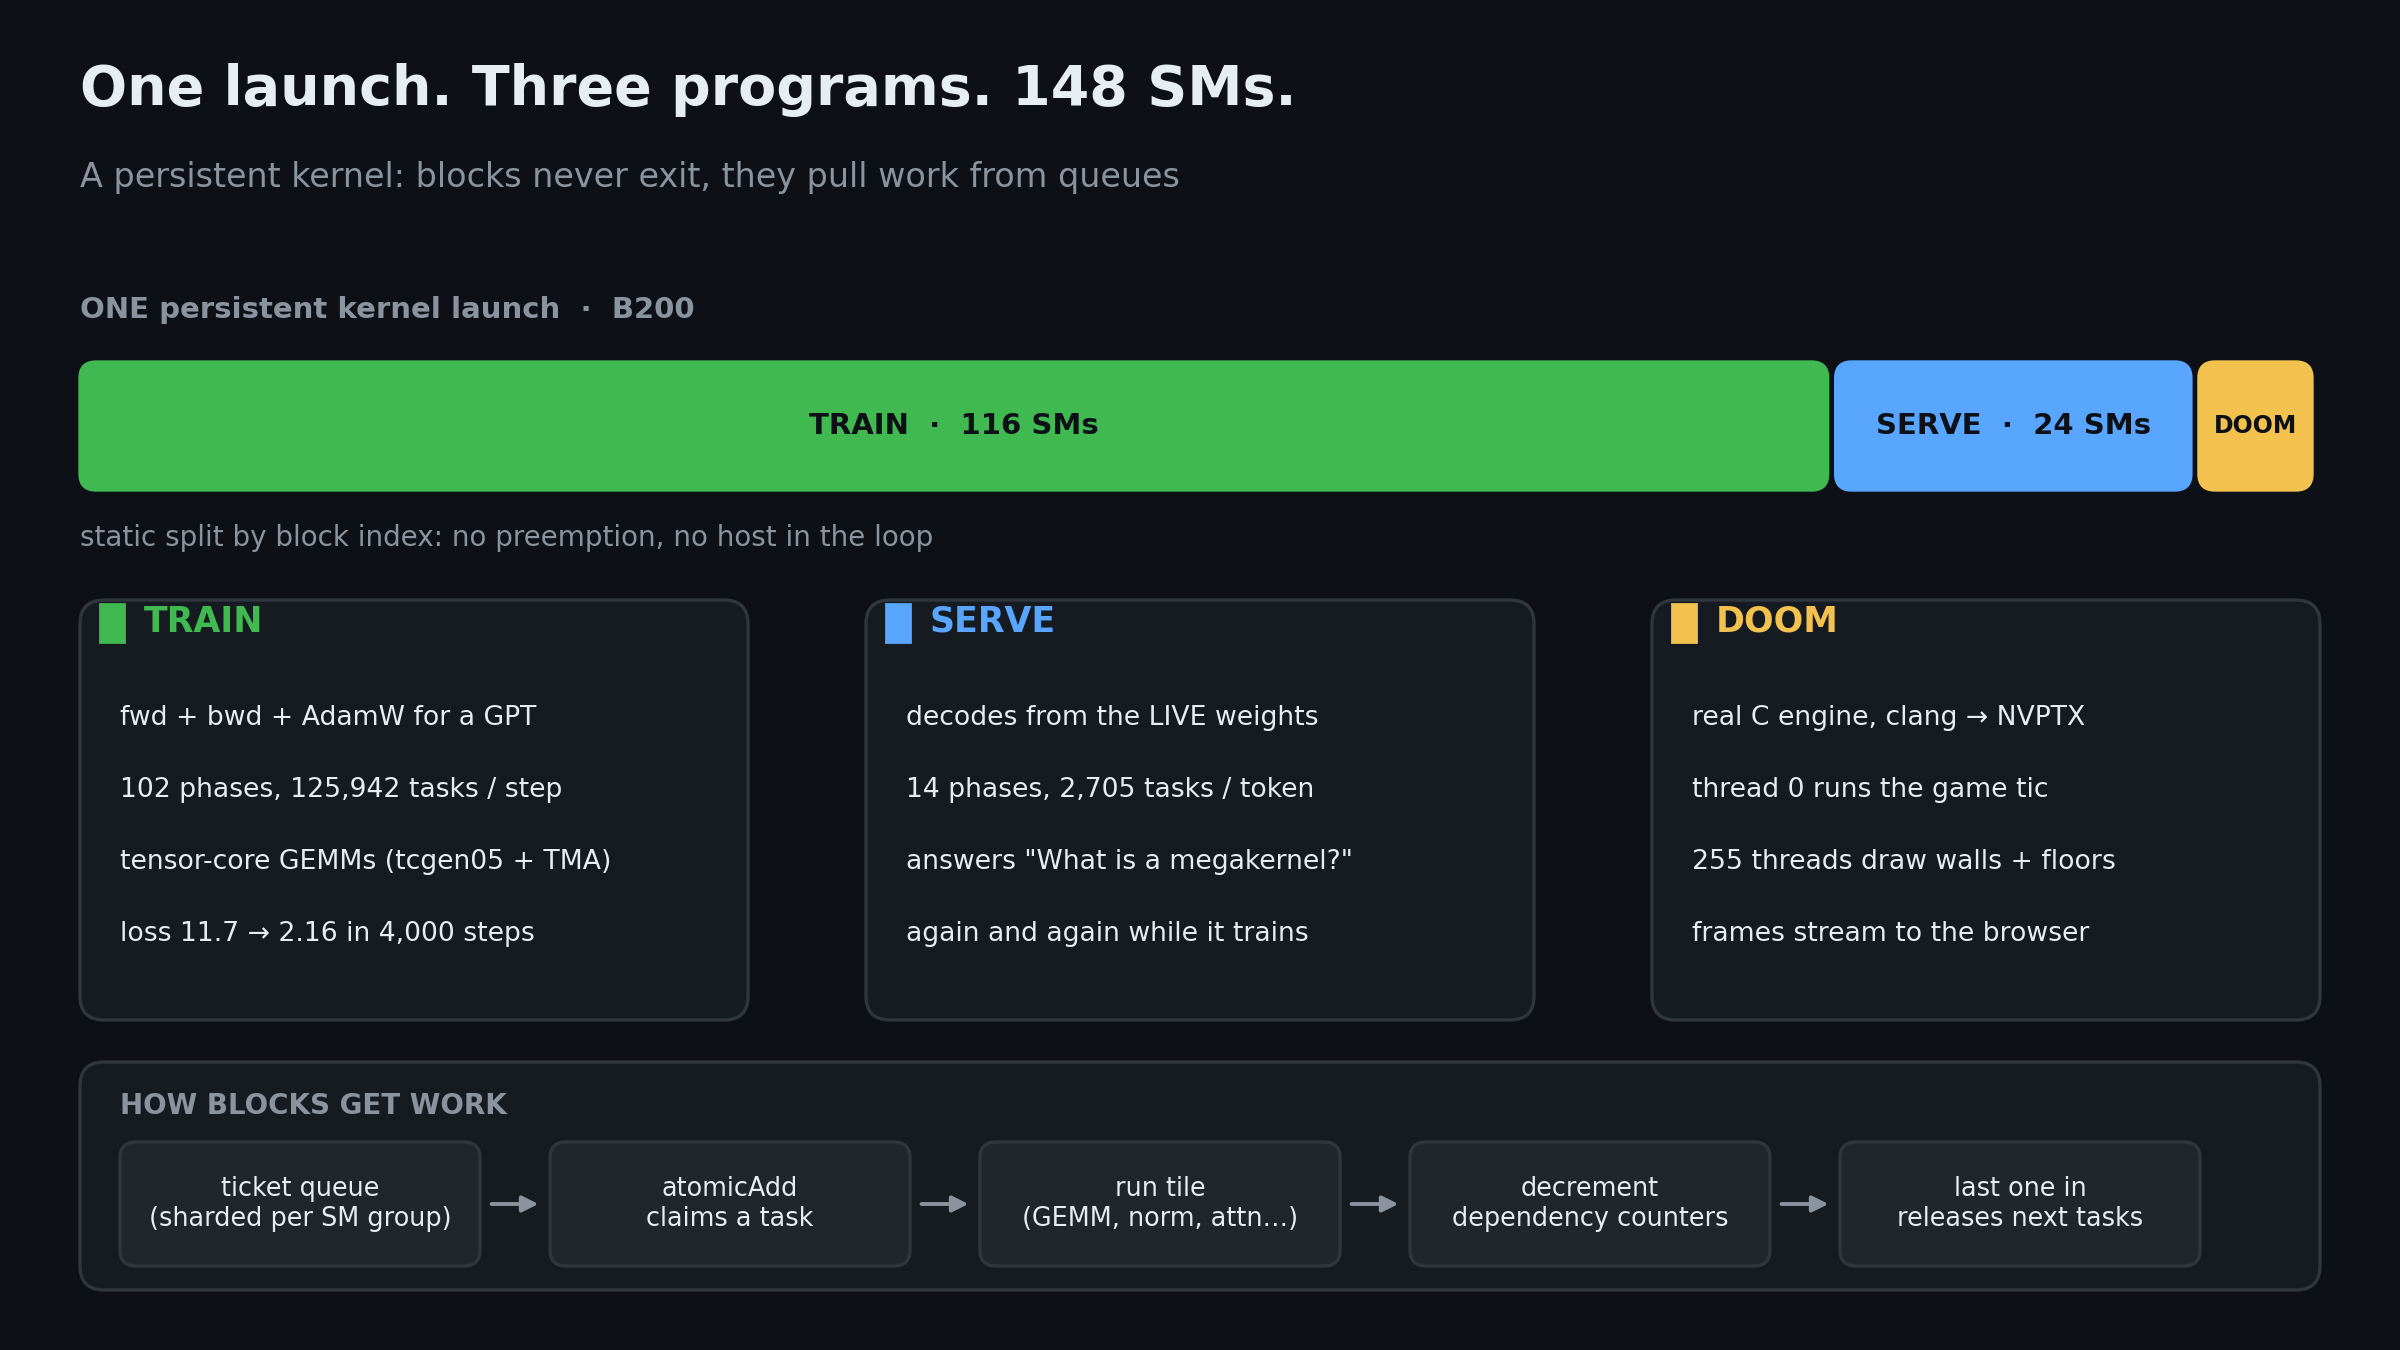
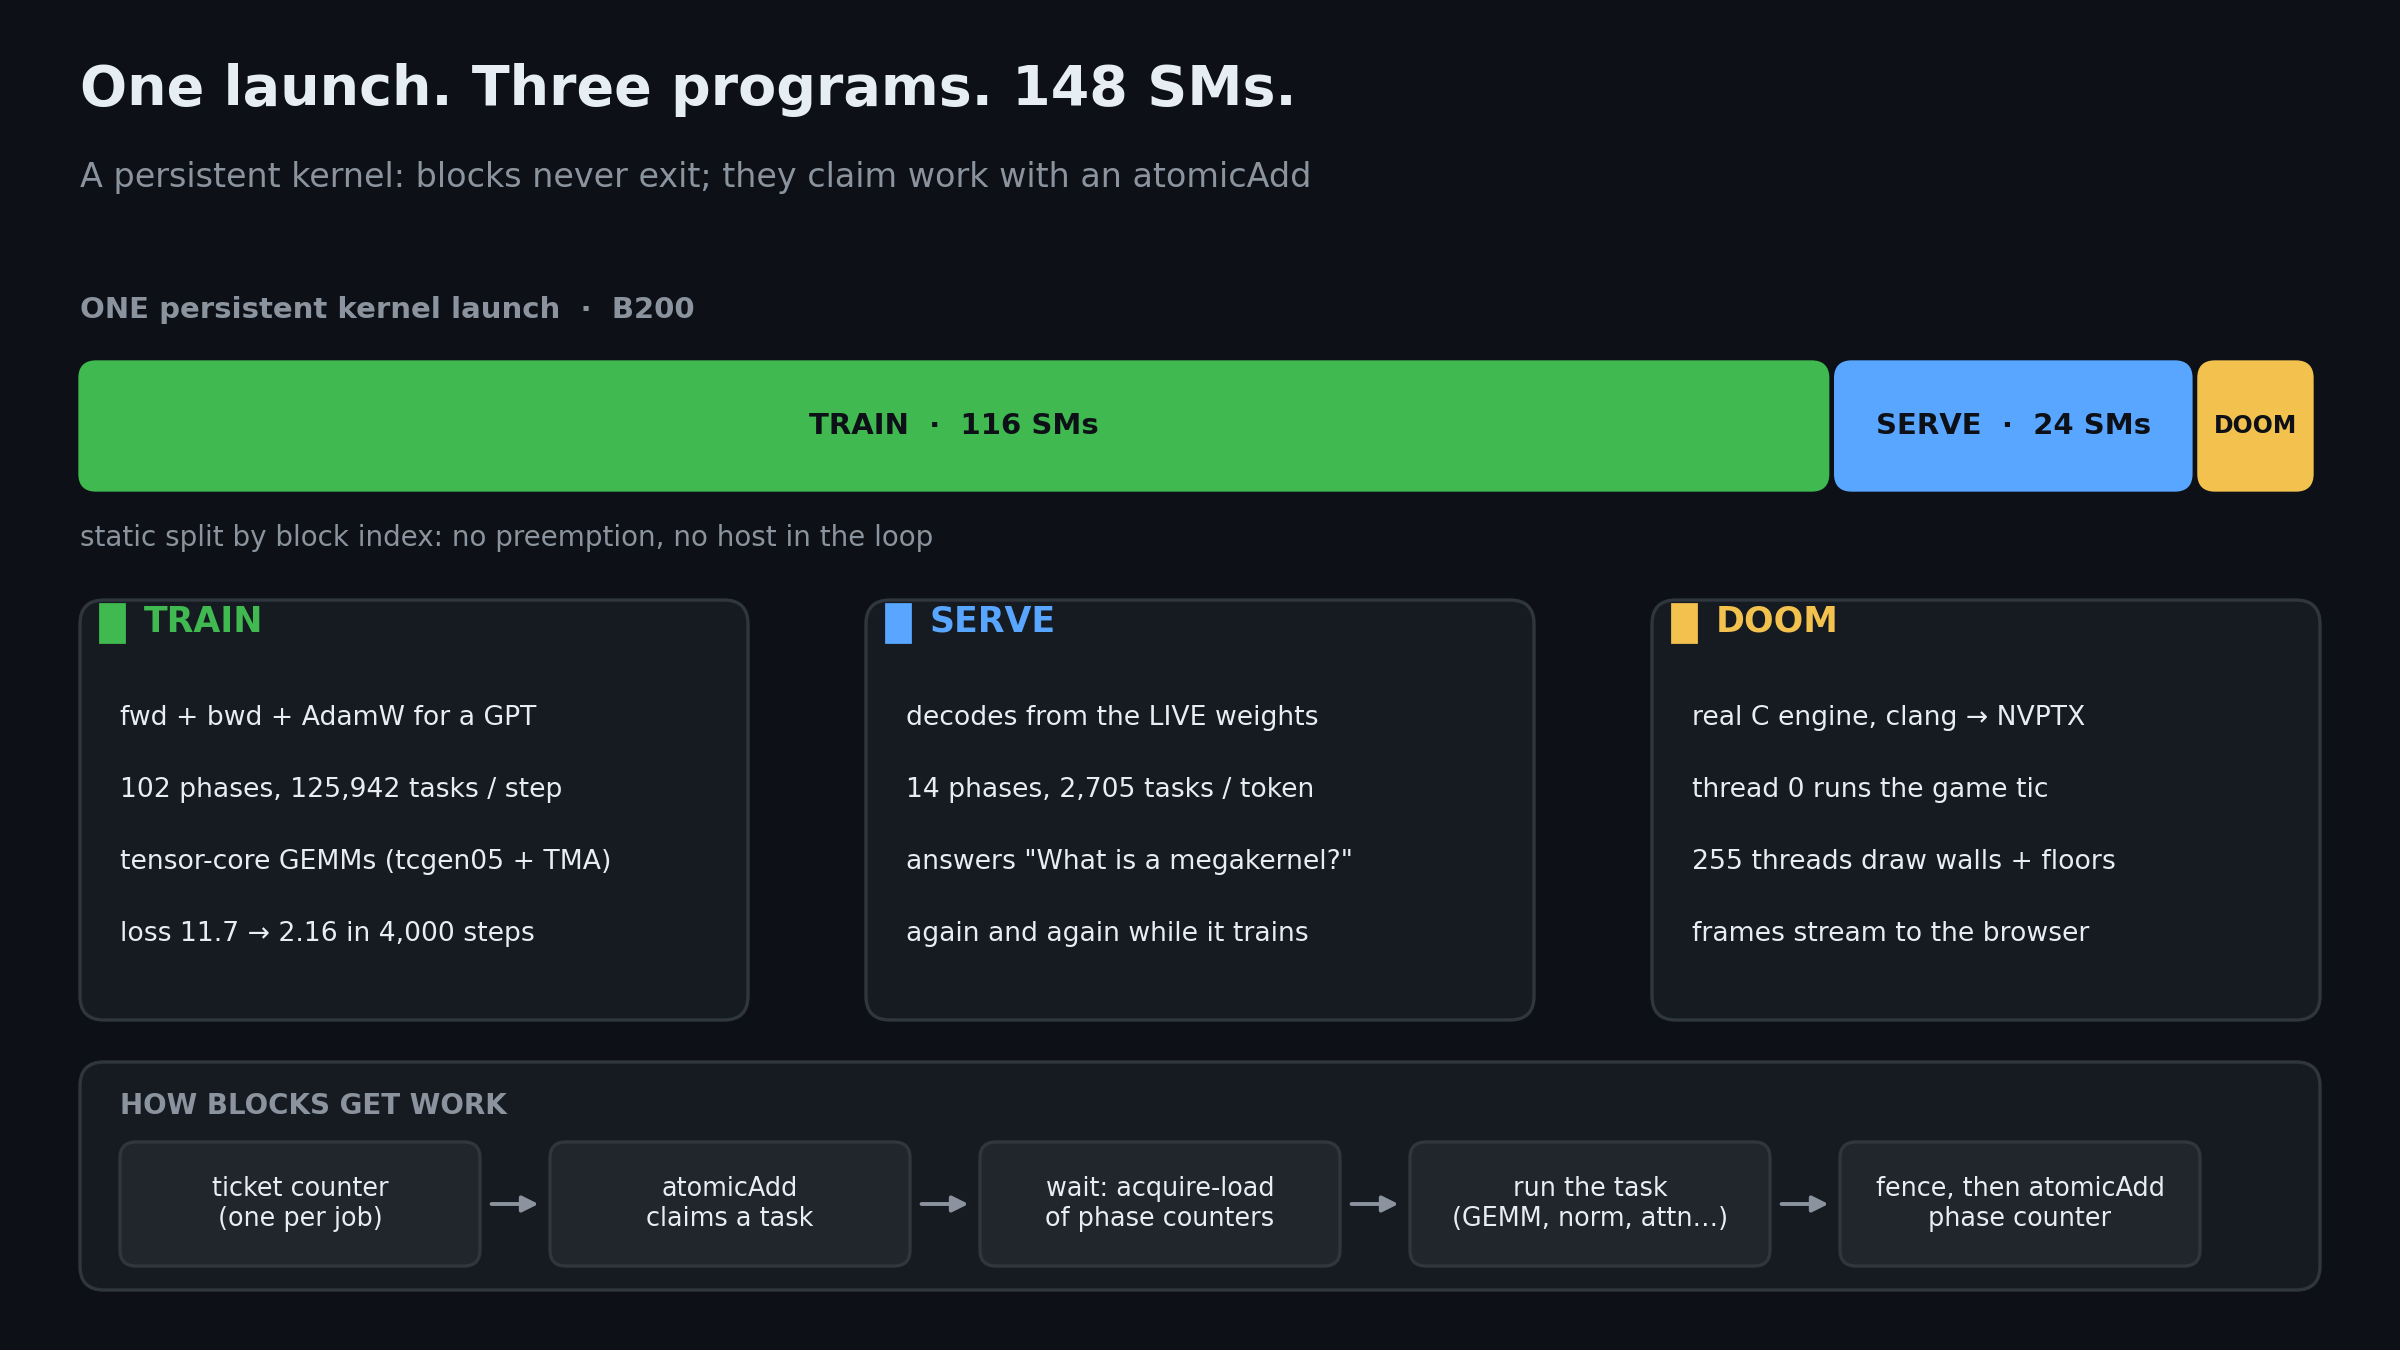
docs: describe the LLM megakernel's scheduler as it is in the code
The README architecture text and diagrams described the small demo's
sharded CAS queues. The LLM kernel uses a static SM partition, one ticket
counter per job claimed with atomicAdd, and per-phase completion counters
read with acquire loads.

diff --git a/tools/make_architecture_chart.py b/tools/make_architecture_chart.py
@@ -21,7 +21,7 @@ def arrow(x1, y1, x2, y2, color=MUTE, rad=0.0):
                                  color=color, lw=1.4, connectionstyle=f"arc3,rad={rad}"))
 
 t(4, 63, "One launch. Three programs. 148 SMs.", 20, weight="bold")
-t(4, 58.6, "A persistent kernel: blocks never exit, they pull work from queues", 12, MUTE)
+t(4, 58.6, "A persistent kernel: blocks never exit; they claim work with an atomicAdd", 12, MUTE)
 
 # --- GPU strip (SM split)
 t(4, 52, "ONE persistent kernel launch  ·  B200", 10.5, MUTE, weight="bold")
@@ -51,7 +51,7 @@ for cx, top, c, name, lines in cols:
 # --- scheduler loop
 box(4, 3, 112, 11.4, "#161b22", LINE)
 t(6, 12.2, "HOW BLOCKS GET WORK", 10, MUTE, weight="bold")
-steps = ["ticket queue\n(sharded per SM group)", "atomicAdd\nclaims a task", "run tile\n(GEMM, norm, attn…)", "decrement\ndependency counters", "last one in\nreleases next tasks"]
+steps = ["ticket counter\n(one per job)", "atomicAdd\nclaims a task", "wait: acquire-load\nof phase counters", "run the task\n(GEMM, norm, attn…)", "fence, then atomicAdd\nphase counter"]
 sx, sw, gap = 6, 18.0, 3.5
 for i, s in enumerate(steps):
     xx = sx + i * (sw + gap)

diff --git a/README.md b/README.md
@@ -104,16 +104,20 @@ on the A100 and 42-58% slower on the B200. Numbers: [`benchmarks/results/`](benc
 
 ## Architecture
 
-Every block of the kernel is a long-lived worker. Warp 0 of each block polls sharded ticket queues, claims the next ready task (priority Doom,
-then inference, then training), and the other warps run it. Tasks signal completion through dependency counters guarded by memory fences, so a
-forward pass releases its backward pass and a token releases the next token, with no kernel launch in between.
+Every block of the kernel is a long-lived worker. At start each block reads its SM id and takes a role from a static partition (B200: 24 SMs
+serve, 8 run Doom, 116 train). Inside the training and serving jobs, thread 0 of a block claims the next task from one ticket counter with a
+single `atomicAdd` (no locks, no CAS retry loop) and the whole block runs it. Each task belongs to a phase, and each phase has a completion
+counter. When a task finishes, the block does a `__threadfence` and then an `atomicAdd` on its phase's counter. Before it starts a task, thread 0
+reads the counters of the phases it depends on with acquire loads and sleeps (`__nanosleep`) until they reach the target. So a forward pass
+releases its backward pass and a token releases the next token, with no kernel launch in between. Tickets are handed out in dependency order, so
+a block waiting on its inputs can never deadlock: the lowest unfinished ticket always has its dependencies done.
 
 ```mermaid
 flowchart TB
     H["host: ONE launch"] --> K
     subgraph K["persistent megakernel (all SMs)"]
         direction TB
-        S["warp 0 of every block: scheduler<br/>probe ticket queues, claim ready task (Doom > serve > train)"]
+        S["each block reads its SM id: static role<br/>no preemption, no host in the loop"]
         subgraph P["SM partition (B200: 116 / 24 / 8)"]
             direction LR
             T["116 SMs<br/>training tasks<br/>fwd, bwd, AdamW"]
@@ -121,7 +125,7 @@ flowchart TB
             D["8 SMs<br/>Doom engine<br/>35 fps"]
         end
         S --> P
-        C["dependency counters in global memory<br/>fence, then atomicAdd"]
+        C["one ticket counter per job + one completion counter per phase<br/>in global memory"]
         P <--> C
     end
     K --> W["pinned memory + HTTP"] --> B["browser: loss, streaming text, Doom frame"]
@@ -130,20 +134,20 @@ flowchart TB
 ```mermaid
 sequenceDiagram
     autonumber
-    participant S as warp 0 (scheduler)
-    participant Q as ticket queues
-    participant C as dependency counters
-    participant W as compute warps
+    participant T as thread 0 of a block
+    participant Q as ticket counter
+    participant C as phase counters
+    participant W as all threads of the block
     loop persistent loop, inside ONE launch
-        S->>Q: probe 32 shards (one memory round trip)
-        Q-->>S: head task of each job
-        S->>C: is its dependency met?
-        C-->>S: counter >= target
-        S->>Q: claim with CAS (Doom > serve > train)
-        S->>W: run the task (registers + L2)
-        W->>C: fence, then atomicAdd (signals dependents)
+        T->>Q: atomicAdd(ticket), get the next task
+        T->>C: acquire-load the counters of the phases it depends on
+        C-->>T: counter >= target (else __nanosleep and retry)
+        T->>W: run the task (registers, shared memory, L2)
+        W->>C: __threadfence, then atomicAdd(phase counter)
     end
 ```
+
+(The small demo, `a100-demo/`, uses a different scheduler: sharded ticket queues with a CAS claim and Doom > serve > train priority.)
 
 On Blackwell the GEMMs use `tcgen05` instructions with TMA loads and TMEM accumulators ([`llm/b200/gemm_tcgen05/`](llm/b200/gemm_tcgen05/README.md)),
 34-73% of cuBLAS speed on the model's 15 GEMM shapes against 13-33% for the earlier `mma.sync` code.
